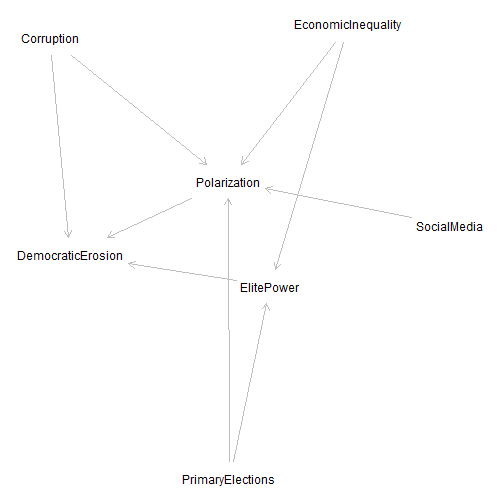
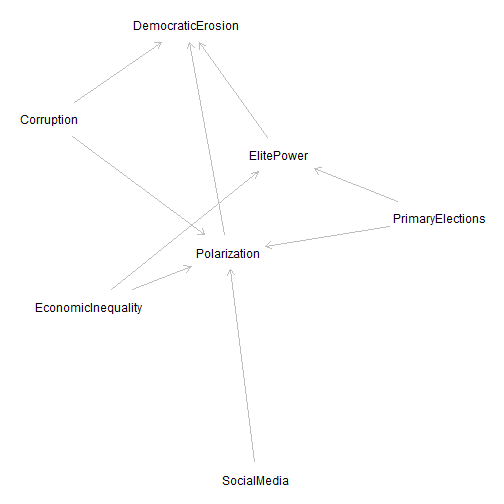
iv slides update

diff --git a/4instrumentalvariables.html b/4instrumentalvariables.html
@@ -493,7 +493,7 @@ summary(migueliv)
 
 Key elements to examine:
 
-1\. **Coefficient on endogenous variable**: `gdp_g` = 0.064 — a 1 percentage point increase in growth increases conflict probability by 6.4 points? (Check units—growth is in percent, conflict is binary)
+1\. **Coefficient on endogenous variable**: `gdp_g` = 0.064 — a 1 percentage point increase in growth increases conflict probability by 6.4 points
 
 2\. **Standard errors**: Clustered SEs are larger (0.038 vs. 0.027) — accounting for within-country correlation matters
 
@@ -1644,9 +1644,11 @@ exp.reweight$coefs.se.boot
 ---
 ### Interpreting the Results
 
--   The ATE estimate for the effect of anger on outsider voting is 0.561, -0.169, -0.514.
+-   The ATE estimate for the effect of anger on outsider voting is -0.514.
 
 -   Compare with the LATE estimate from IV: 1.5743.
+
+---
 
 -   The ATE is pretty different from the LATE. This could mean:
     -   Always‑takers and never‑takers have different effects than compliers (or opposite signs).
@@ -1659,7 +1661,7 @@ exp.reweight$coefs.se.boot
 | Estimand | Estimate | Interpretation |
 |----------|----------|----------------|
 | LATE (IV) | 1.5743 | Effect for compliers—those whose anger is activated by the prime. |
-| ATE (ICSW) | 0.5612, -0.1694, -0.5144 | Effect for the entire population, assuming the compliance score model is correct. |
+| ATE (ICSW) | -0.5144 | Effect for the entire population, assuming the compliance score model is correct. |
 
 ---
 ### Comparison: LATE vs. ATE
